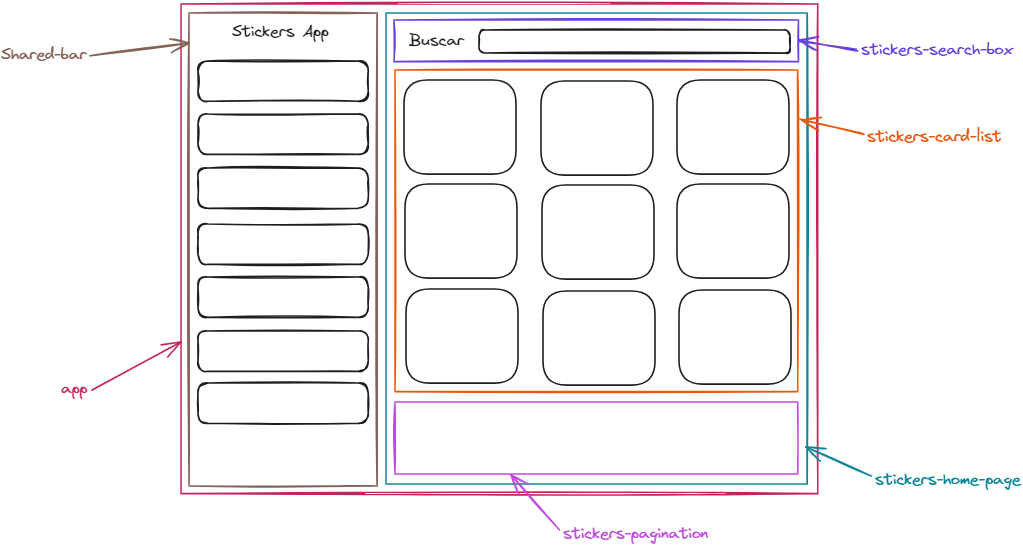
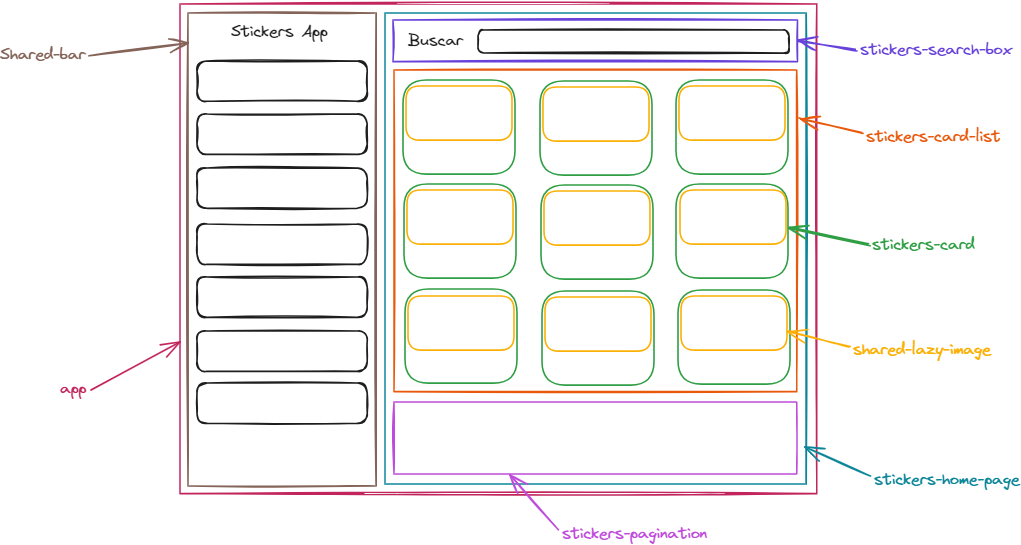
Creación y funcionamiento del lazy load para las imagenes que se cargan en los stickers

diff --git a/src/app/stickers/stickers.module.ts b/src/app/stickers/stickers.module.ts
@@ -1,11 +1,13 @@
 import { NgModule } from '@angular/core';
 import { CommonModule } from '@angular/common';
 
-import { HomePageComponent } from './pages/home-page/home-page.component';
-import { SearchBoxComponent } from './components/search-box/search-box.component';
-import { CardListComponent } from './components/card-list/card-list.component';
-import { PaginationComponent } from './components/pagination/pagination.component';
 import { CardComponent } from './components/card/card.component';
+import { CardListComponent } from './components/card-list/card-list.component';
+import { HomePageComponent } from './pages/home-page/home-page.component';
+import { PaginationComponent } from './components/pagination/pagination.component';
+import { SearchBoxComponent } from './components/search-box/search-box.component';
+
+import { SharedModule } from '../shared/shared.module';
 
 @NgModule({
   declarations: [
@@ -16,7 +18,8 @@ import { CardComponent } from './components/card/card.component';
     CardComponent
   ],
   imports: [
-    CommonModule
+    CommonModule,
+    SharedModule
   ],
   exports: [
     HomePageComponent

diff --git a/src/app/shared/components/lazy-image/lazy-image.component.ts b/src/app/shared/components/lazy-image/lazy-image.component.ts
@@ -1,0 +1,22 @@
+import { Component, Input, OnInit } from '@angular/core';
+
+@Component({
+  selector: 'shared-lazy-image',
+  templateUrl: './lazy-image.component.html',
+  styleUrls: ['./lazy-image.component.css']
+})
+export class LazyImageComponent implements OnInit {
+  @Input()
+  public url!: string
+  @Input()
+  public alt: string = ''
+  public hasLoaded: boolean = false
+
+  ngOnInit(): void {
+    if(!this.url) throw new Error('URL property is required')
+  }
+
+  onLoad(): void {
+    this.hasLoaded = true
+  }
+}

diff --git a/src/app/shared/shared.module.ts b/src/app/shared/shared.module.ts
@@ -1,16 +1,19 @@
 import { NgModule } from '@angular/core';
 import { CommonModule } from '@angular/common';
 
+import { LazyImageComponent } from './components/lazy-image/lazy-image.component';
 import { SidebarComponent } from './components/sidebar/sidebar.component';
 
 @NgModule({
   declarations: [
-    SidebarComponent
+    SidebarComponent,
+    LazyImageComponent
   ],
   imports: [
     CommonModule
   ],
   exports: [
+    LazyImageComponent,
     SidebarComponent
   ]
 })

diff --git a/src/index.html b/src/index.html
@@ -7,6 +7,7 @@
   <base href="/">
   <meta name="viewport" content="width=device-width, initial-scale=1">
   <link href="https://cdn.jsdelivr.net/npm/bootstrap@5.3.3/dist/css/bootstrap.min.css" rel="stylesheet" integrity="sha384-QWTKZyjpPEjISv5WaRU9OFeRpok6YctnYmDr5pNlyT2bRjXh0JMhjY6hW+ALEwIH" crossorigin="anonymous">
+  <link rel="stylesheet" href="https://cdnjs.cloudflare.com/ajax/libs/animate.css/4.1.1/animate.min.css"/>
 </head>
 <body>
   <app-root></app-root>

diff --git a/src/app/stickers/components/card/card.component.html b/src/app/stickers/components/card/card.component.html
@@ -1,5 +1,5 @@
 <div class="card mb-2 text-center bg-dark custom-card">
-  <img class="image card-img-top bg-body-secondary" [src]="sticker.images.downsized_medium.url" [alt]="sticker.title">
+  <shared-lazy-image class="image bg-body-secondary" [url]="sticker.images.downsized_medium.url" [alt]="sticker.title || 'No title'"></shared-lazy-image>
   <div class="card-body text-white">
     <p class="card-text"> {{ sticker.title || 'No title' }} </p>
   </div>

diff --git a/src/app/app.component.html b/src/app/app.component.html
@@ -1,8 +1,4 @@
 <div class="d-flex">
-  <!-- Home Page -->
-  <!-- <div class="p-2 flex-grow-1"> -->
-    <stickers-home-page class="p-2 flex-grow-1"></stickers-home-page>
-  <!-- </div> -->
-  <!-- Sidebar -->
+  <stickers-home-page class="p-2 flex-grow-1"></stickers-home-page>
   <shared-sidebar></shared-sidebar>
 </div>

diff --git a/src/app/shared/components/lazy-image/lazy-image.component.html b/src/app/shared/components/lazy-image/lazy-image.component.html
@@ -1,0 +1,4 @@
+<div class="d-flex justify-content-center">
+  <img [src]="url" [alt]="alt" class="card-img-top animate__animated animate__fadeInDown" (load)="onLoad()" [ngStyle]="{ display: hasLoaded ? '' : 'none' }">
+  <img src="assets/loader.svg" class="mt-3" height="35" width="35" *ngIf="!hasLoaded">
+</div>

diff --git a/src/app/stickers/components/card/card.component.css b/src/app/stickers/components/card/card.component.css
@@ -6,11 +6,6 @@
   justify-content: space-between;
 }
 
-.custom-card .card-img-top {
-  height: 210px;
-  object-fit: cover;
-}
-
 .custom-card .card-body {
   height: 90px;
   overflow: hidden;

diff --git a/src/app/shared/components/lazy-image/lazy-image.component.css b/src/app/shared/components/lazy-image/lazy-image.component.css
@@ -1,0 +1,4 @@
+.card-img-top {
+  height: 210px;
+  object-fit: cover;
+}

diff --git a/README.md b/README.md
@@ -11,6 +11,8 @@ Para ejecutar el servidor de desarrollo, se debe escribir el comando ```ng serve
 ![Diseño de página en componentes](images/design.png)
 1. Se usa el API suministrada por la plataforma [Giphy](https://giphy.com/apps/giphy), para la consulta de Stickers con el endpoint ```http://api.giphy.com/v1/stickers/search```, para más información dirigirse a la [Documentación](https://developers.giphy.com/docs/api/endpoint/#search) correspondiente
 2. Manejo del LocalStorage para el almacenamiento o historial de la información buscada previamente
+3. Implementación de imagen svg para el loader al momento de cargarse los sticker, para esto se usa el repositorio [Repositorio SVG Loaders](https://github.com/SamHerbert/SVG-Loaders/tree/master), para ver los loaders en funcionamiento se puede visitar la siguiente página web [svg-loaders](https://samherbert.net/svg-loaders/)
+4. Se implementa estilos o animaciones de CSS, por medio de la página web [Animate.css](https://animate.style/)
 
 # Producto final
 Diseño final del proyecto de búsqueda de stickers
